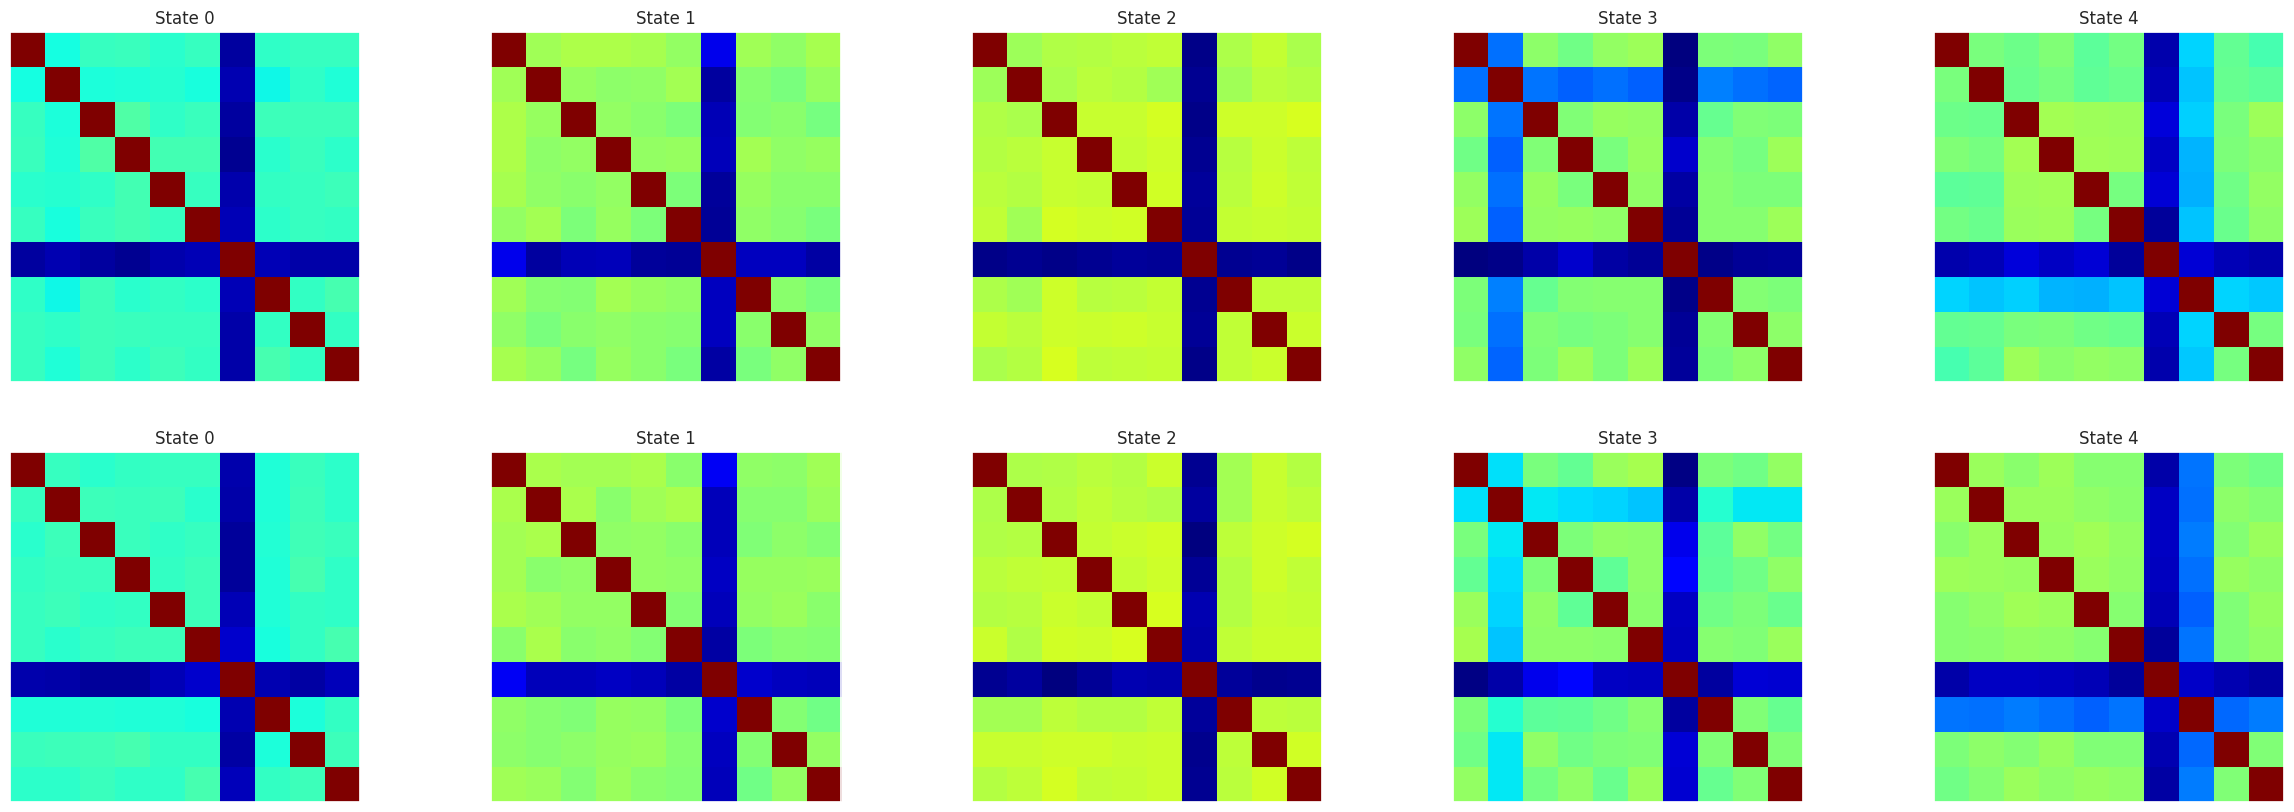
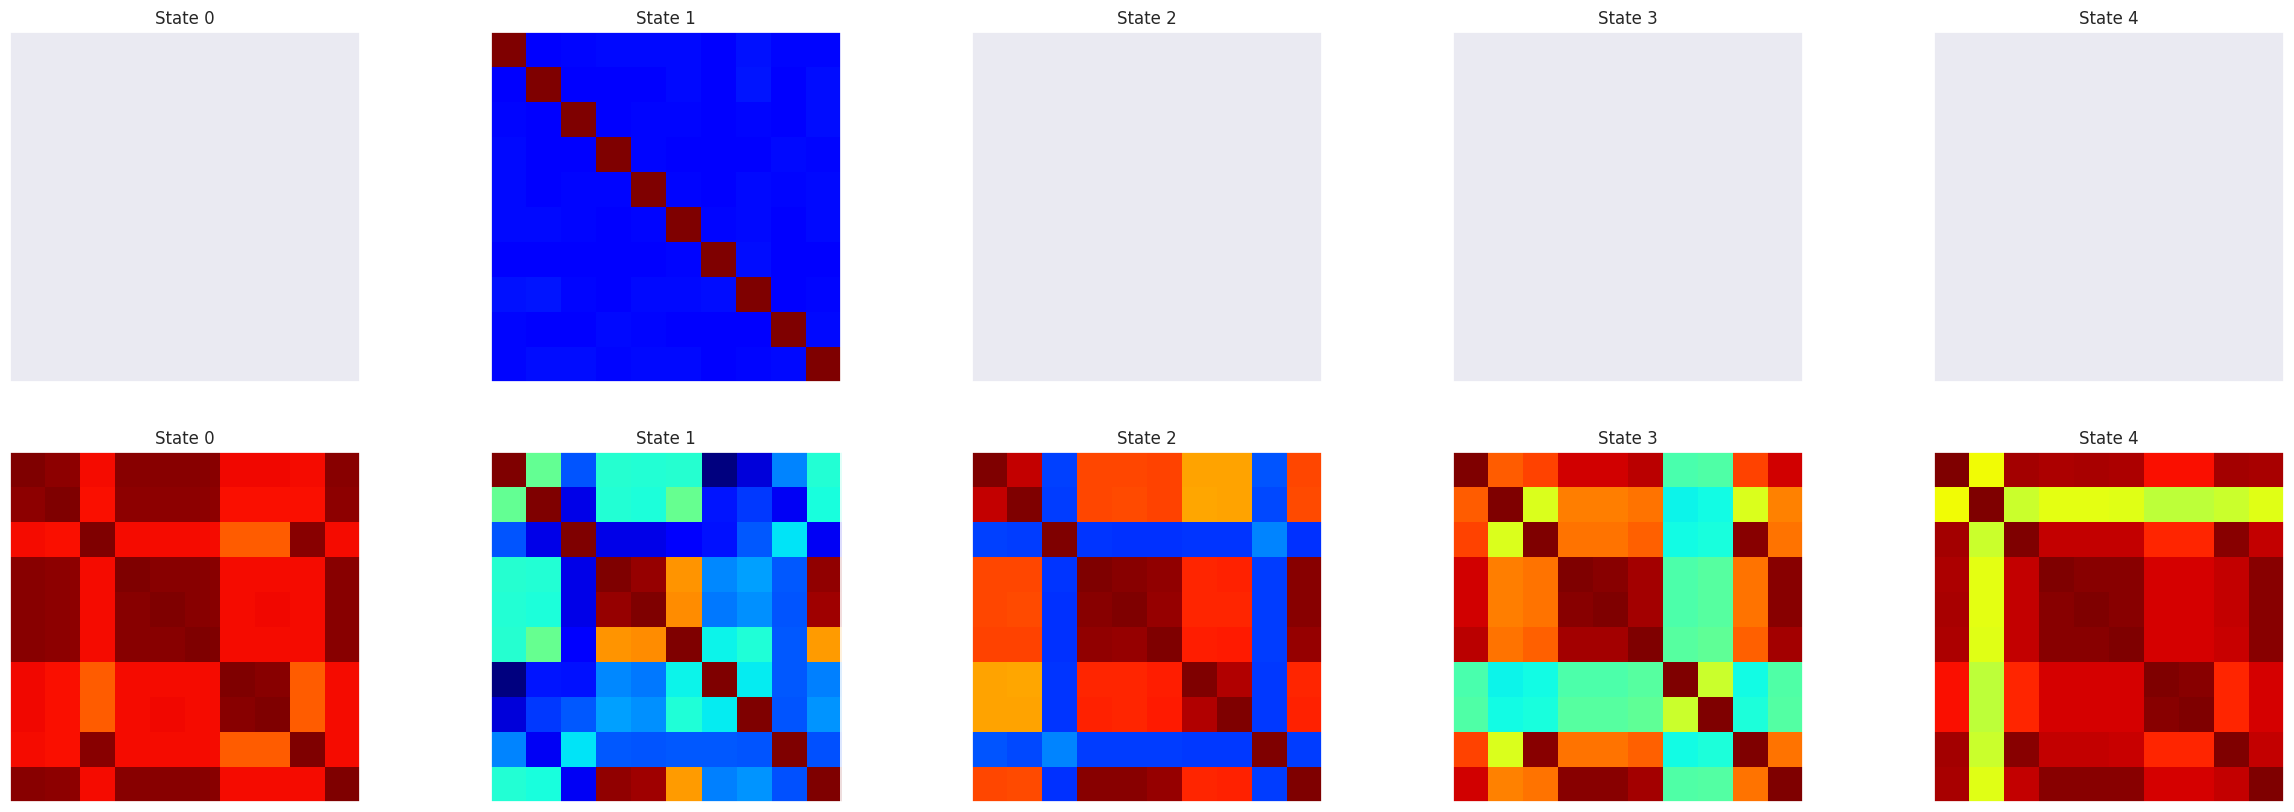
newest results

diff --git a/make_accuracy_plots.py b/make_accuracy_plots.py
@@ -35,6 +35,7 @@ if args.betas:
 CLUSTERERS = list(CFOLDERS.keys())
 rows = []
 mean_rows = []
+std_rows = []
 
 for clusterer, folder in CFOLDERS.items():
     directory = os.path.join(ROOT_DIR, folder)
@@ -46,21 +47,32 @@ for clusterer, folder in CFOLDERS.items():
     test_cols = [cols for cols in scores.columns if 'test' in cols]
     test_scores = scores[test_cols].to_dict()
     mean_row = {"Clustering Algorithm": clusterer}
+    std_row = {"Clustering Algorithm": clusterer}
 
     for method in test_cols:
         if method.replace('test', '').strip() in exclude:
             continue
         mean_row[method.replace('test', '').strip()] = np.mean(list(test_scores[method].values()))
+        std_row[method.replace('test', '').strip()] = np.std(list(test_scores[method].values()))
         for k in test_scores[method].values():
             rows.append(dict(AUC=k, classifier=method.replace('test', '').strip(), clusterer=clusterer))
     mean_rows.append(mean_row)
-df = pd.DataFrame(rows)
-mean_df = pd.DataFrame(mean_rows)
-mean_df = mean_df.set_index('Clustering Algorithm')
-mean_df = mean_df[mean_df.max().sort_values(ascending=False).index]
+    std_rows.append(std_row)
 num_columns = len(test_cols)
 num_rows = len(CLUSTERERS)
 sb.set()
+
+df = pd.DataFrame(rows)
+mean_df = pd.DataFrame(mean_rows)
+mean_df = mean_df.set_index('Clustering Algorithm')
+mean_df = mean_df.round(decimals=3)
+std_df = pd.DataFrame(std_rows)
+std_df = std_df.round(decimals=3)
+std_df = std_df.set_index('Clustering Algorithm')
+std_df = std_df[mean_df.max().sort_values(ascending=False).index]
+mean_df = mean_df[mean_df.max().sort_values(ascending=False).index]
+
+
 fig, ax = plt.subplots(1, num_rows, figsize=(24, 12))
 for i in range(num_rows):
     dfc = df[df['clusterer'] == CLUSTERERS[i]]
@@ -81,6 +93,29 @@ if args.betas:
 else:
     plt.suptitle('AUC usign Cluster-Assignments')
     filename = 'results/%s_assignments_accuracy.png' % DATASET
+
+new_std_rows = []
+
+for i, row in mean_df.iterrows():
+    new_std_row = {"Clustering Algorithm": i}
+    for j, column in enumerate(mean_df.columns):
+        stdget = std_df.loc[i][j]
+        mn = row[column]
+        maxmn = np.max(mean_df[column])
+        std_string = str(row[column]) + " ± " + str(stdget)
+        if mn == maxmn:
+            std_string = "**%s**" % std_string
+        elif mn + stdget >= maxmn:
+            std_string = "*%s*" % std_string
+        new_std_row[column] = std_string
+    new_std_rows.append(new_std_row)
+
+new_std_df = pd.DataFrame(new_std_rows)
+new_std_df = new_std_df.set_index('Clustering Algorithm')
+new_std_df = new_std_df[mean_df.max().sort_values(ascending=False).index]
+
+
+
 plt.savefig(filename, bbox_inches='tight')
 sb.boxplot(data=dfc, x='classifier', y='AUC', hue='classifier', ax=ax[-1])
 axc = plt.gca()
@@ -89,11 +124,13 @@ plt.figlegend(*axc.get_legend_handles_labels(), loc='upper left')
 figLegend.savefig('results/accuracy_legend.png', bbox_inches='tight')
 
 print("Mean Results")
-print(mean_df)
+print(new_std_df)
 if args.betas:
     mean_df.to_csv('results/%s_betas_mean_scores.csv' % (DATASET))
+    new_std_df.to_csv('results/full_%s_betas_mean_scores.csv' % (DATASET))
 else:
     mean_df.to_csv('results/%s_mean_scores.csv' % (DATASET))
+    new_std_df.to_csv('results/full_%s_mean_scores.csv' % (DATASET))
 
 #pp=sb.boxplot(data=dfc, x='classifier', y='AUC', hue='classifier')
 # ax[-1].set_axis_off()

diff --git a/dfncluster/Dataset/GaussianConnectivityDataset.py b/dfncluster/Dataset/GaussianConnectivityDataset.py
@@ -19,18 +19,18 @@ class GaussianConnectivityDataset(Dataset):
                  window_size=22,
                  class_parameters=[
                      dict(
-                         states=[0.1, 0.1, 0.2, 0.6],
+                         states=[0.15, 0.15, 0.15, 0.4, 0.15],
                          sigma_ics=0.1,
                          sigma_ext=0.001,
                          epsilon=0.1,
-                         transition_probability=[0.5, 0.5, 0.5, 0.5]
+                         transition_probability=[0.5, 0.5, 0.5, 0.25, 0.5]
                      ),
                      dict(
-                         states=[0.6, 0.2, 0.1, 0.1],
+                         states=[0.4, 0.15, 0.15, 0.15, 0.15],
                          sigma_ics=0.1,
                          sigma_ext=0.001,
                          epsilon=0.1,
-                         transition_probability=[0.5, 0.5, 0.5, 0.5]
+                         transition_probability=[0.25, 0.5, 0.5, 0.5, 0.5]
                      )
                  ],
                  epsilon=1):

diff --git a/dfncluster/dFNC/dFNC.py b/dfncluster/dFNC/dFNC.py
@@ -417,10 +417,16 @@ class dFNC:
                 Z[np.triu_indices(nc)] = centroid_k
                 Z = Z.T
                 Z[np.triu_indices(nc)] = centroid_k
-                ax[ck, k].imshow(Z, cmap='jet', vmin=state_min, vmax=state_max)
-                ax[ck, k].set_title("State %d" % k)
-                ax[ck, k].set_xticks(())
-                ax[ck, k].set_yticks(())
+                if num_states == 1:
+                    ax[ck].imshow(Z, cmap='jet', vmin=state_min, vmax=state_max)
+                    ax[ck].set_title("State %d" % k)
+                    ax[ck].set_xticks(())
+                    ax[ck].set_yticks(())
+                else:
+                    ax[ck, k].imshow(Z, cmap='jet', vmin=state_min, vmax=state_max)
+                    ax[ck, k].set_title("State %d" % k)
+                    ax[ck, k].set_xticks(())
+                    ax[ck, k].set_yticks(())
         plt.savefig(filename, bbox_inches='tight')
         vmin = float("inf")
         vmax = -float("inf")

diff --git a/results.md b/results.md
@@ -1,27 +1,33 @@
+## Key
+| Max AUC            | Within One $\sigma$ | Other AUC      |
+| ------------------ | ------------------- | -------------- |
+| **0.9 ± $\sigma$** | *0.8  ± $\sigma$*   | 0.5 ± $\sigma$ |
+
 ## Simulated Data
-| Clustering Algorithm | SVM                    | Multilayer Perceptron  | Random Forest          | Extra Trees            | Perceptron             | Logistic Regression   | Passive Aggressive Classifier |
-| -------------------- | ---------------------- | ---------------------- | ---------------------- | ---------------------- | ---------------------- | --------------------- | ----------------------------- |
-| kmeans               | 0.6584950396825398     | 0.617593253968254      | 0.6046785714285715     | **0.6015674603174603** | 0.5371150793650793     | 0.5637519841269841    | 0.5619781746031747            |
-| gmm                  | **0.6589126984126985** | 0.6100277777777777     | 0.5413144841269842     | 0.5417628968253968     | 0.4882202380952381     | 0.563313492063492     | 0.5219920634920634            |
-| bgmm                 | 0.614232142857143      | 0.6069285714285714     | **0.6095753968253967** | 0.5697817460317459     | 0.47446428571428567    | **0.568204365079365** | **0.5628670634920635**        |
-| hierarchical         | 0.6429474206349206     | **0.6375952380952381** | 0.6066914682539681     | 0.5788809523809524     | **0.5699781746031746** | 0.5642003968253968    | 0.5233531746031745            |
+| Clustering Algorithm | SVM               | Multilayer Perceptron | Random Forest    | Extra Trees       | Logistic Regression | Passive Aggressive Classifier | Perceptron       |
+| -------------------- | ----------------- | --------------------- | ---------------- | ----------------- | ------------------- | ----------------------------- | ---------------- |
+| kmeans               | *0.658 ± 0.089*   | *0.618 ± 0.094*       | *0.605 ± 0.107*  | **0.602 ± 0.106** | *0.564 ± 0.109*     | *0.562 ± 0.113*               | *0.537 ± 0.079*  |
+| gmm                  | **0.659 ± 0.078** | *0.61 ± 0.072*        | *0.541 ± 0.12*   | *0.542 ± 0.106*   | *0.563 ± 0.096*     | *0.522 ± 0.111*               | *0.488 ± 0.103*  |
+| bgmm                 | *0.614 ± 0.079*   | *0.607 ± 0.084*       | **0.61 ± 0.106** | *0.57 ± 0.077*    | *0.568 ± 0.101*     | *0.563 ± 0.101*               | *0.474 ± 0.117*  |
+| dbscan               | 0.492 ± 0.113     | *0.537 ± 0.144*       | *0.511 ± 0.125*  | *0.531 ± 0.112*   | **0.572 ± 0.103**   | **0.572 ± 0.103**             | *0.484 ± 0.117*  |
+| hierarchical         | *0.643 ± 0.082*   | **0.638 ± 0.106**     | *0.607 ± 0.115*  | *0.579 ± 0.102*   | *0.564 ± 0.112*     | *0.523 ± 0.091*               | **0.57 ± 0.077** |
 
 ## FBirn Data
 
-| Clustering Algorithm | SVM                    | Multilayer Perceptron  | Logistic Regression | Passive Aggressive Classifier | Perceptron             | Random Forest          | Extra Trees            |
-| -------------------- | ---------------------- | ---------------------- | ------------------- | ----------------------------- | ---------------------- | ---------------------- | ---------------------- |
-| kmeans               | 0.9520588235294118     | 0.9196216299019607     | 0.9435447303921569  | 0.9451102941176469            | **0.9022931985294118** | 0.8714767156862745     | 0.8528477328431372     |
-| gmm                  | 0.9363970588235293     | 0.9456372549019607     | 0.9427113970588235  | 0.9288694852941177            | 0.881732536764706      | **0.8845297181372549** | **0.8737484681372548** |
-| bgmm                 | 0.9553431372549019     | 0.9324126838235294     | 0.9451868872549019  | 0.9394776348039215            | 0.8959558823529411     | 0.8601194852941176     | 0.8699563419117646     |
-| dbscan               | 0.8825995710784313     | 0.8928691789215686     | 0.892403492647059   | 0.8840073529411765            | 0.8282215073529413     | 0.8052129289215687     | 0.8058946078431373     |
-| hierarchical         | **0.9568213848039215** | **0.9536381740196079** | **0.953125**        | **0.950949754901961**         | 0.8908792892156863     | 0.8813970588235295     | 0.8722870710784314     |
+| Clustering Algorithm | SVM               | Multilayer Perceptron | Logistic Regression | Passive Aggressive Classifier | Perceptron        | Random Forest     | Extra Trees       |
+| -------------------- | ----------------- | --------------------- | ------------------- | ----------------------------- | ----------------- | ----------------- | ----------------- |
+| kmeans               | *0.952 ± 0.036*   | *0.92 ± 0.065*        | *0.944 ± 0.039*     | *0.945 ± 0.035*               | **0.902 ± 0.043** | *0.871 ± 0.038*   | *0.853 ± 0.04*    |
+| gmm                  | *0.936 ± 0.054*   | *0.946 ± 0.038*       | *0.943 ± 0.038*     | *0.929 ± 0.031*               | *0.882 ± 0.04*    | **0.885 ± 0.022** | **0.874 ± 0.026** |
+| bgmm                 | *0.955 ± 0.037*   | *0.932 ± 0.042*       | *0.945 ± 0.038*     | *0.939 ± 0.038*               | *0.896 ± 0.074*   | *0.86 ± 0.039*    | *0.87 ± 0.056*    |
+| dbscan               | 0.883 ± 0.027     | 0.893 ± 0.031         | 0.892 ± 0.033       | 0.884 ± 0.027                 | 0.828 ± 0.064     | 0.805 ± 0.064     | 0.806 ± 0.058     |
+| hierarchical         | **0.957 ± 0.032** | **0.954 ± 0.038**     | **0.953 ± 0.038**   | **0.951 ± 0.032**             | *0.891 ± 0.098*   | *0.881 ± 0.032*   | *0.872 ± 0.048*   |
 
 ## UCLA Data
 
-| Clustering Algorithm | SVM                  | Multilayer Perceptron  | Logistic Regression    | Passive Aggressive Classifier | Perceptron            | Extra Trees            | Random Forest          |
-| -------------------- | -------------------- | ---------------------- | ---------------------- | ----------------------------- | --------------------- | ---------------------- | ---------------------- |
-| kmeans               | 0.9066666666666666   | 0.9070562770562771     | 0.9041991341991343     | **0.8958441558441559**        | 0.7987445887445888    | 0.7238961038961038     | 0.7455194805194806     |
-| gmm                  | **0.91008658008658** | **0.9089610389610391** | **0.9080086580086582** | 0.8852813852813852            | **0.885930735930736** | 0.7949350649350648     | 0.7847619047619048     |
-| bgmm                 | 0.9091341991341991   | 0.9071861471861473     | 0.9080952380952383     | 0.8770129870129871            | 0.8786147186147186    | 0.7410173160173159     | 0.7052597402597403     |
-| dbscan               | 0.4087878787878788   | 0.4666233766233766     | 0.6902164502164503     | 0.6670129870129871            | 0.5                   | 0.6432900432900432     | 0.6491774891774892     |
-| hierarchical         | 0.8857142857142856   | 0.8890043290043289     | 0.8998701298701299     | 0.8833766233766234            | 0.8257142857142858    | **0.8294588744588746** | **0.7920346320346321** |
+| Clustering Algorithm | SVM              | Multilayer Perceptron | Logistic Regression | Passive Aggressive Classifier | Perceptron        | Extra Trees       | Random Forest     |
+| -------------------- | ---------------- | --------------------- | ------------------- | ----------------------------- | ----------------- | ----------------- | ----------------- |
+| kmeans               | *0.907 ± 0.057*  | *0.907 ± 0.057*       | *0.904 ± 0.06*      | **0.896 ± 0.08**              | *0.799 ± 0.116*   | *0.724 ± 0.168*   | *0.746 ± 0.133*   |
+| gmm                  | **0.91 ± 0.059** | **0.909 ± 0.07**      | **0.908 ± 0.071**   | *0.885 ± 0.087*               | **0.886 ± 0.058** | *0.795 ± 0.095*   | *0.785 ± 0.108*   |
+| bgmm                 | *0.909 ± 0.075*  | *0.907 ± 0.081*       | **0.908 ± 0.08**    | *0.877 ± 0.105*               | *0.879 ± 0.081*   | *0.741 ± 0.157*   | *0.705 ± 0.166*   |
+| dbscan               | 0.409 ± 0.118    | 0.467 ± 0.131         | 0.69 ± 0.096        | 0.667 ± 0.122                 | 0.5 ± 0.0         | 0.643 ± 0.171     | 0.649 ± 0.125     |
+| hierarchical         | *0.886 ± 0.054*  | *0.889 ± 0.07*        | *0.9 ± 0.069*       | *0.883 ± 0.071*               | *0.826 ± 0.122*   | **0.829 ± 0.099** | **0.792 ± 0.114** |
